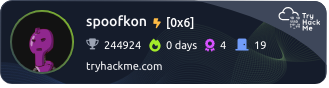
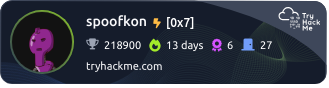
THM cleanup + update

diff --git a/README.md b/README.md
@@ -125,7 +125,52 @@
 
 ---
 
+## Profile Badge 
+
 ![Try Hack Me](./TryHackMe/spoofkon.png)
+
+## Rooms
+
+- [Careers in Cyber](https://tryhackme.com/room/careersincyber)
+- [Common Attacks](https://tryhackme.com/room/commonattacks)
+- [Cyber Kill Chain](https://tryhackme.com/room/cyberkillchainzmt)
+- [Defensive Security Intro](https://tryhackme.com/room/defensivesecurityintro)
+- [DNS in detail](https://tryhackme.com/room/dnsindetail)
+- [Extending Your Network](https://tryhackme.com/room/extendingyournetwork)
+- [Governance & Regulation](https://tryhackme.com/room/cybergovernanceregulation)
+- [How Websites Work](https://tryhackme.com/room/howwebsiteswork)
+- [HTTP in Detail](https://tryhackme.com/room/httpindetail)
+- [Introductory Networking](https://tryhackme.com/room/introtonetworking)
+- [Intro to LAN](https://tryhackme.com/room/introtolan)
+- [Linux Fundamentals Part 1](https://tryhackme.com/room/linuxfundamentalspart1)
+- [Linux Fundamentals Part 2](https://tryhackme.com/room/linuxfundamentalspart2)
+- [Linux Fundamentals Part 3](https://tryhackme.com/room/linuxfundamentalspart3)
+- [Network Services](https://tryhackme.com/room/networkservices)
+- [Nmap](https://tryhackme.com/room/furthernmap)
+- [Network Services 2](https://tryhackme.com/room/networkservices2)
+- [Offensive Security Intro](https://tryhackme.com/room/offensivesecurityintro)
+- [OSI Model](https://tryhackme.com/room/osimodelzi)
+- [Packets & Frames](https://tryhackme.com/room/packetsframes)
+- [Putting it all together](https://tryhackme.com/room/puttingitalltogether)
+- [Python Basics](https://tryhackme.com/room/pythonbasics)
+- [Security Principles](https://tryhackme.com/room/securityprinciples)
+- [What is Networking?](https://tryhackme.com/room/whatisnetworking)
+- [Windows Fundamentals 1](https://tryhackme.com/room/windowsfundamentals1xbx)
+- [Windows Fundamentals 2](https://tryhackme.com/room/windowsfundamentals2x0x)
+- [Windows Fundamentals 3](https://tryhackme.com/room/windowsfundamentals3xzx)
+
+## Certificates
+
+- [pathway-gijdj7xxvc](https://tryhackme-certificates.s3-eu-west-1.amazonaws.com/THM-MW6DBEGPGO.pdf)
+
+## Badges
+
+- ![cat linux.txt](./TryHackMe/Badges/terminaled.png)
+- ![Networking Nerd](./TryHackMe/Badges/network-fundamentals.png)
+- ![Security Awareness](./TryHackMe/Badges/security-awareness.png)
+- ![Webbed](./TryHackMe/Badges/web-fund.png)
+- ![World Wide Web](./TryHackMe/Badges/world-wide-web.png)
+- ![7 Day Streak](./TryHackMe/Badges/7-day-streak.png)
 
 ## Weber State University
 

diff --git a/TryHackMe/README.md b/TryHackMe/README.md
@@ -2,4 +2,49 @@
 
 ---
 
+## Profile Badge 
+
 ![Try Hack Me](./spoofkon.png)
+
+## Rooms
+
+- [Careers in Cyber](https://tryhackme.com/room/careersincyber)
+- [Common Attacks](https://tryhackme.com/room/commonattacks)
+- [Cyber Kill Chain](https://tryhackme.com/room/cyberkillchainzmt)
+- [Defensive Security Intro](https://tryhackme.com/room/defensivesecurityintro)
+- [DNS in detail](https://tryhackme.com/room/dnsindetail)
+- [Extending Your Network](https://tryhackme.com/room/extendingyournetwork)
+- [Governance & Regulation](https://tryhackme.com/room/cybergovernanceregulation)
+- [How Websites Work](https://tryhackme.com/room/howwebsiteswork)
+- [HTTP in Detail](https://tryhackme.com/room/httpindetail)
+- [Introductory Networking](https://tryhackme.com/room/introtonetworking)
+- [Intro to LAN](https://tryhackme.com/room/introtolan)
+- [Linux Fundamentals Part 1](https://tryhackme.com/room/linuxfundamentalspart1)
+- [Linux Fundamentals Part 2](https://tryhackme.com/room/linuxfundamentalspart2)
+- [Linux Fundamentals Part 3](https://tryhackme.com/room/linuxfundamentalspart3)
+- [Network Services](https://tryhackme.com/room/networkservices)
+- [Nmap](https://tryhackme.com/room/furthernmap)
+- [Network Services 2](https://tryhackme.com/room/networkservices2)
+- [Offensive Security Intro](https://tryhackme.com/room/offensivesecurityintro)
+- [OSI Model](https://tryhackme.com/room/osimodelzi)
+- [Packets & Frames](https://tryhackme.com/room/packetsframes)
+- [Putting it all together](https://tryhackme.com/room/puttingitalltogether)
+- [Python Basics](https://tryhackme.com/room/pythonbasics)
+- [Security Principles](https://tryhackme.com/room/securityprinciples)
+- [What is Networking?](https://tryhackme.com/room/whatisnetworking)
+- [Windows Fundamentals 1](https://tryhackme.com/room/windowsfundamentals1xbx)
+- [Windows Fundamentals 2](https://tryhackme.com/room/windowsfundamentals2x0x)
+- [Windows Fundamentals 3](https://tryhackme.com/room/windowsfundamentals3xzx)
+
+## Certificates
+
+- [pathway-gijdj7xxvc](https://tryhackme-certificates.s3-eu-west-1.amazonaws.com/THM-MW6DBEGPGO.pdf)
+
+## Badges
+
+- ![cat linux.txt](./Badges/terminaled.png)
+- ![Networking Nerd](./Badges/network-fundamentals.png)
+- ![Security Awareness](./Badges/security-awareness.png)
+- ![Webbed](./Badges/web-fund.png)
+- ![World Wide Web](./Badges/world-wide-web.png)
+- ![7 Day Streak](./Badges/7-day-streak.png)
